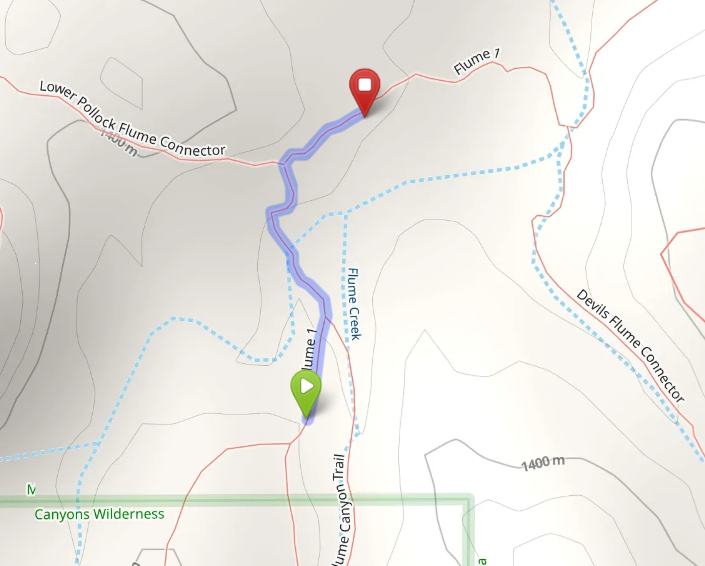
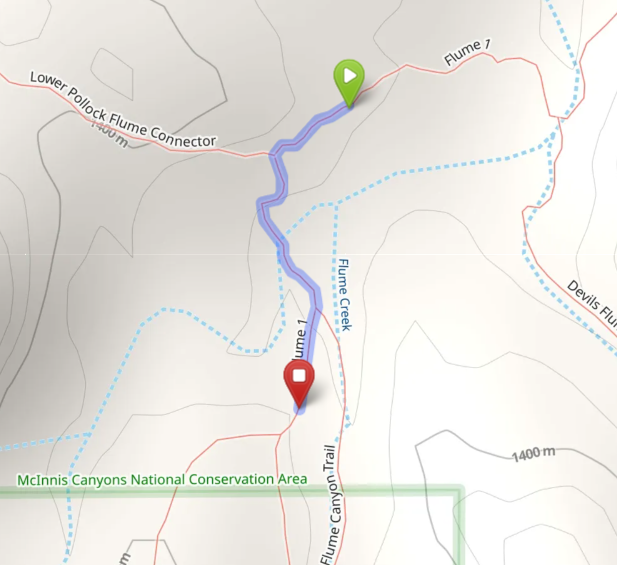
Built site for gh-pages

diff --git a/index.html b/index.html
@@ -247,7 +247,7 @@ window.Quarto = {
     </div>
 </div>
 <div class="list quarto-listing-default">
-<div class="quarto-post image-right" data-index="0" data-categories="ZnJ1aXRhJTJDcG9lbXMlMkNrb2RlbCdzJTIwY2FueW9uJTJDSzEy" data-listing-date-sort="1763856000000" data-listing-file-modified-sort="1763960697514" data-listing-date-modified-sort="NaN" data-listing-reading-time-sort="2" data-listing-word-count-sort="241">
+<div class="quarto-post image-right" data-index="0" data-categories="ZnJ1aXRhJTJDcG9lbXMlMkNrb2RlbCdzJTIwY2FueW9uJTJDSzEy" data-listing-date-sort="1763856000000" data-listing-file-modified-sort="1764001301430" data-listing-date-modified-sort="NaN" data-listing-reading-time-sort="2" data-listing-word-count-sort="241">
 <div class="thumbnail"><a href="./poems/timeless-lookout.html" class="no-external">
 
 <p class="card-img-top"><img src="poems/images/k12_eyes_map_hint.png" style="height: 0;"  class="thumbnail-image card-img"/></p>
@@ -286,7 +286,7 @@ Rudy
 </a>
 </div>
 </div>
[2 lines of base64/hex data omitted]
 <div class="thumbnail"><a href="./poems/elephant-seal.html" class="no-external">
 
 <p class="card-img-top"><img src="poems/images/monument_seal_map_hint.png" style="height: 0;"  class="thumbnail-image card-img"/></p>
@@ -325,7 +325,7 @@ Rudy
 </a>
 </div>
 </div>
-<div class="quarto-post image-right" data-index="2" data-categories="ZnJ1aXRhJTJDcG9lbXMlMkNmbHVtZSUyMGNhbnlvbiUyQ0Yx" data-listing-date-sort="1759017600000" data-listing-file-modified-sort="1763960697364" data-listing-date-modified-sort="NaN" data-listing-reading-time-sort="2" data-listing-word-count-sort="249">
+<div class="quarto-post image-right" data-index="2" data-categories="ZnJ1aXRhJTJDcG9lbXMlMkNmbHVtZSUyMGNhbnlvbiUyQ0Yx" data-listing-date-sort="1759017600000" data-listing-file-modified-sort="1764001301280" data-listing-date-modified-sort="NaN" data-listing-reading-time-sort="2" data-listing-word-count-sort="249">
 <div class="thumbnail"><a href="./poems/desert-shipwreck.html" class="no-external">
 
 <p class="card-img-top"><img src="poems/images/f1_shipwreck_map_hint.png" style="height: 0;"  class="thumbnail-image card-img"/></p>
@@ -333,7 +333,7 @@ Rudy
 </a></div>
 <div class="body">
 <h3 class="no-anchor listing-title">
-<a href="./poems/desert-shipwreck.html" class="no-external">The Desert Shipwreck</a>
+<a href="./poems/desert-shipwreck.html" class="no-external">Desert Shipwreck</a>
 </h3>
 <div class="listing-subtitle">
 <a href="./poems/desert-shipwreck.html" class="no-external">F1 #1</a>
@@ -364,7 +364,7 @@ Rudy
 </a>
 </div>
 </div>
-<div class="quarto-post image-right" data-index="3" data-categories="ZnJ1aXRhJTJDcG9lbXMlMkNmbHVtZSUyMGNhbnlvbiUyQ0Yx" data-listing-date-sort="1758326400000" data-listing-file-modified-sort="1763960697365" data-listing-date-modified-sort="NaN" data-listing-reading-time-sort="2" data-listing-word-count-sort="233">
+<div class="quarto-post image-right" data-index="3" data-categories="ZnJ1aXRhJTJDcG9lbXMlMkNmbHVtZSUyMGNhbnlvbiUyQ0Yx" data-listing-date-sort="1758326400000" data-listing-file-modified-sort="1764001301280" data-listing-date-modified-sort="NaN" data-listing-reading-time-sort="2" data-listing-word-count-sort="233">
 <div class="thumbnail"><a href="./poems/guardian-of-the-flume.html" class="no-external">
 
 <p class="card-img-top"><img src="poems/images/f1_guardian_map_hint.png" style="height: 0;"  class="thumbnail-image card-img"/></p>
@@ -403,7 +403,7 @@ Rudy
 </a>
 </div>
 </div>
-<div class="quarto-post image-right" data-index="4" data-categories="ZnJ1aXRhJTJDcG9lbXMlMkNmbHVtZSUyMGNhbnlvbiUyQ0Yx" data-listing-date-sort="1757980800000" data-listing-file-modified-sort="1763960697514" data-listing-date-modified-sort="NaN" data-listing-reading-time-sort="2" data-listing-word-count-sort="231">
+<div class="quarto-post image-right" data-index="4" data-categories="ZnJ1aXRhJTJDcG9lbXMlMkNmbHVtZSUyMGNhbnlvbiUyQ0Yx" data-listing-date-sort="1757980800000" data-listing-file-modified-sort="1764001301430" data-listing-date-modified-sort="NaN" data-listing-reading-time-sort="2" data-listing-word-count-sort="231">
 <div class="thumbnail"><a href="./poems/patina-portrait.html" class="no-external">
 
 <p class="card-img-top"><img src="poems/images/f1_portrait_map_hint.png" style="height: 0;"  class="thumbnail-image card-img"/></p>
@@ -442,7 +442,7 @@ Rudy
 </a>
 </div>
 </div>
-<div class="quarto-post image-right" data-index="5" data-categories="ZnJ1aXRhJTJDcG9lbXMlMkNkZXZpbCdzJTIwY2FueW9uJTJDRDQ=" data-listing-date-sort="1757808000000" data-listing-file-modified-sort="1763960697364" data-listing-date-modified-sort="NaN" data-listing-reading-time-sort="2" data-listing-word-count-sort="225">
+<div class="quarto-post image-right" data-index="5" data-categories="ZnJ1aXRhJTJDcG9lbXMlMkNkZXZpbCdzJTIwY2FueW9uJTJDRDQ=" data-listing-date-sort="1757808000000" data-listing-file-modified-sort="1764001301280" data-listing-date-modified-sort="NaN" data-listing-reading-time-sort="2" data-listing-word-count-sort="225">
 <div class="thumbnail"><a href="./poems/canyon-secret-grin.html" class="no-external">
 
 <p class="card-img-top"><img src="poems/images/d4_grin_map_hint.png" style="height: 0;"  class="thumbnail-image card-img"/></p>
@@ -481,7 +481,7 @@ Rudy
 </a>
 </div>
 </div>
-<div class="quarto-post image-right" data-index="6" data-categories="ZnJ1aXRhJTJDcG9lbXMlMkNkZXZpbCdzJTIwY2FueW9uJTJDRDQ=" data-listing-date-sort="1757808000000" data-listing-file-modified-sort="1763960697364" data-listing-date-modified-sort="NaN" data-listing-reading-time-sort="1" data-listing-word-count-sort="188">
+<div class="quarto-post image-right" data-index="6" data-categories="ZnJ1aXRhJTJDcG9lbXMlMkNkZXZpbCdzJTIwY2FueW9uJTJDRDQ=" data-listing-date-sort="1757808000000" data-listing-file-modified-sort="1764001301280" data-listing-date-modified-sort="NaN" data-listing-reading-time-sort="1" data-listing-word-count-sort="188">
 <div class="thumbnail"><a href="./poems/dapper-duck.html" class="no-external">
 
 <p class="card-img-top"><img src="poems/images/d4_duck_map_hint.png" style="height: 0;"  class="thumbnail-image card-img"/></p>
@@ -520,7 +520,7 @@ Rudy
 </a>
 </div>
 </div>
-<div class="quarto-post image-right" data-index="7" data-categories="ZnJ1aXRhJTJDcG9lbXMlMkNkZXZpbCdzJTIwY2FueW9uJTJDRDQ=" data-listing-date-sort="1757808000000" data-listing-file-modified-sort="1763960697514" data-listing-date-modified-sort="NaN" data-listing-reading-time-sort="2" data-listing-word-count-sort="240">
+<div class="quarto-post image-right" data-index="7" data-categories="ZnJ1aXRhJTJDcG9lbXMlMkNkZXZpbCdzJTIwY2FueW9uJTJDRDQ=" data-listing-date-sort="1757808000000" data-listing-file-modified-sort="1764001301430" data-listing-date-modified-sort="NaN" data-listing-reading-time-sort="2" data-listing-word-count-sort="240">
 <div class="thumbnail"><a href="./poems/red-rock-fury.html" class="no-external">
 
 <p class="card-img-top"><img src="poems/images/d4_fury_map_hint.png" style="height: 0;"  class="thumbnail-image card-img"/></p>

diff --git a/poems/desert-shipwreck.html b/poems/desert-shipwreck.html
@@ -10,7 +10,7 @@
 <meta name="dcterms.date" content="2025-09-28">
 <meta name="description" content="When the canyon held the sea">
 
-<title>The Desert Shipwreck – Sandstone Sonnets</title>
+<title>Desert Shipwreck – Sandstone Sonnets</title>
 <style>
 code{white-space: pre-wrap;}
 span.smallcaps{font-variant: small-caps;}
@@ -126,7 +126,7 @@ ul.task-list li input[type="checkbox"] {
 
 <header id="title-block-header" class="quarto-title-block default">
 <div class="quarto-title">
-<h1 class="title">The Desert Shipwreck</h1>
+<h1 class="title">Desert Shipwreck</h1>
 <p class="subtitle lead">F1 #1</p>
   <div class="quarto-categories">
     <div class="quarto-category">fruita</div>
@@ -218,7 +218,7 @@ A whale sunk that ship right here!</p>
 <div class="callout-body-container callout-body">
 <div class="quarto-figure quarto-figure-center">
 <figure class="figure">
-<p><a href="https://www.openstreetmap.org/directions?engine=fossgis_osrm_foot&amp;route=39.141395%2C-108.785441%3B39.142959%2C-108.784003#map=16/39.14547/-108.78106&amp;layers=P"><img src="images/f1_shipwreck_map_hint.png" class="img-fluid figure-img"></a></p>
+<p><a href="https://www.openstreetmap.org/directions?engine=fossgis_osrm_foot&amp;route=39.152328%2C-108.781096%3B39.150329%2C-108.781525#map=18/39.151345/-108.781407&amp;layers=P"><img src="images/f1_shipwreck_map_hint.png" class="img-fluid figure-img"></a></p>
 <figcaption>This feature is visible from the F1 trail. It can be found somewhere in the area highlighted in purple above. Click for an interactive map.</figcaption>
 </figure>
 </div>
